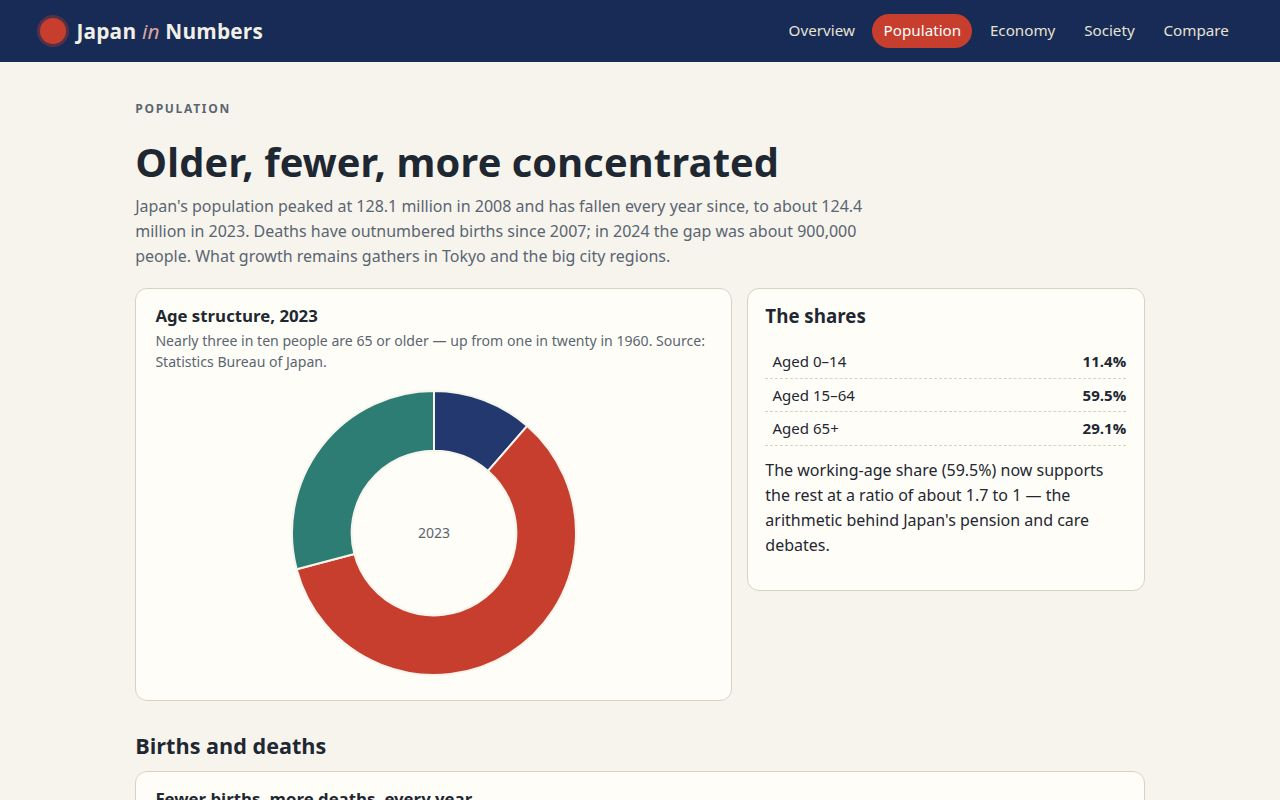
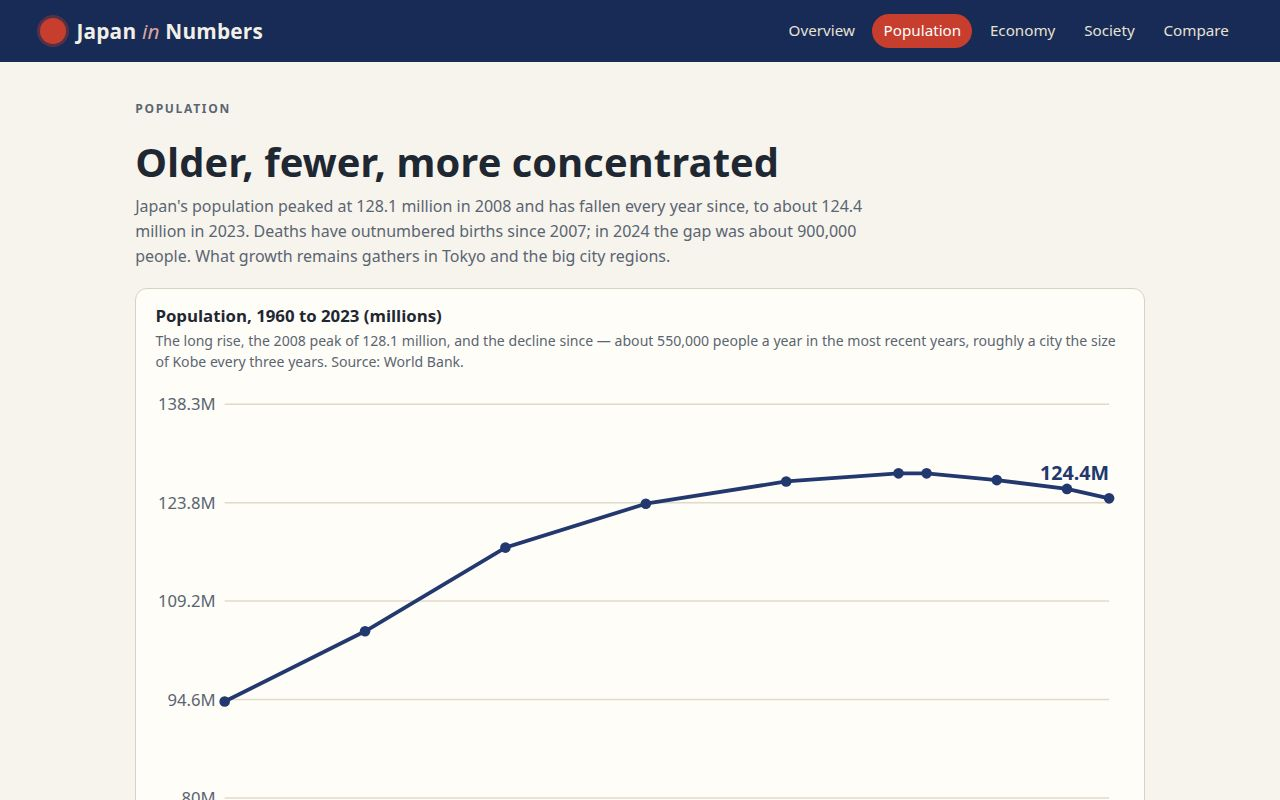
Polish: population trend chart on the population page, readable chart floors, prefecture order and wording fixes

diff --git a/app/views.js b/app/views.js
@@ -37,7 +37,7 @@ export function overviewView() {
     <p class="chart-sub">Sixty years of growth, a peak of ${peak.value} million in ${peak.year}, then a decline of
     ${Math.abs(fall.abs)} million (${fall.pct}%) by 2023 — the turn that shapes everything else on this site.
     Source: World Bank.</p>
-    ${lineChart(POPULATION_TREND, { unit: 'M', label: 'Population of Japan, millions' })}
+    ${lineChart(POPULATION_TREND, { unit: 'M', label: 'Population of Japan, millions', floor: 80 })}
   </div>
 
   <h2 class="section">Go deeper</h2>
@@ -57,6 +57,12 @@ export function populationView() {
     <p>Japan's population peaked at 128.1 million in 2008 and has fallen every year since, to about
     124.4 million in 2023. Deaths have outnumbered births since 2007; in 2024 the gap was about
     900,000 people. What growth remains gathers in Tokyo and the big city regions.</p>
+  </div>
+  <div class="card chart-card" style="margin-bottom:0.9rem">
+    <h3>Population, 1960 to 2023 (millions)</h3>
+    <p class="chart-sub">The long rise, the 2008 peak of 128.1 million, and the decline since — about 550,000 people a year
+    in the most recent years, roughly a city the size of Kobe every three years. Source: World Bank.</p>
+    ${lineChart(POPULATION_TREND, { unit: 'M', label: 'Population of Japan, millions', floor: 80 })}
   </div>
   <div class="split">
     <div class="card chart-card">
@@ -143,7 +149,7 @@ export function societyView() {
     <h3>Life expectancy at birth, 1960 to 2022</h3>
     <p class="chart-sub">Sixteen extra years of life since 1960. The small dip in 2021–22, the first in decades, followed the
     pandemic years. Source: World Bank.</p>
-    ${lineChart(LIFE_EXPECTANCY, { unit: '', color: '#2e7d74', label: 'Life expectancy in Japan, years' })}
+    ${lineChart(LIFE_EXPECTANCY, { unit: '', color: '#2e7d74', label: 'Life expectancy in Japan, years', floor: 50 })}
   </div>
   <h2 class="section">Society in figures</h2>
   <div class="cards">

diff --git a/app/data.js b/app/data.js
@@ -2,7 +2,7 @@
 // values are the published magnitudes, rounded for readability (see the footer of every page).
 
 export const KEY_INDICATORS = [
-  { label: 'Population', value: '124.4 million', detail: 'Down about 0.4% a year since the 2008 peak of 128.1 million', source: 'World Bank', year: 2023 },
+  { label: 'Population', value: '124.4 million', detail: 'Falling every year since the 2008 peak of 128.1 million', source: 'World Bank', year: 2023 },
   { label: 'Gross domestic product', value: '$4.21 trillion', detail: 'The world\u2019s fourth-largest economy, behind the US, China and Germany', source: 'World Bank', year: 2023 },
   { label: 'GDP per person', value: '$33,800', detail: 'Nominal, per head of population', source: 'World Bank', year: 2023 },
   { label: 'Life expectancy', value: '84.0 years', detail: 'Among the highest ever recorded for a large country', source: 'World Bank', year: 2022 },
@@ -35,8 +35,8 @@ export const PREFECTURES = [
   { name: 'Saitama', population: 7.34, note: 'Tokyo\u2019s northern commuter belt' },
   { name: 'Chiba', population: 6.28, note: 'East of Tokyo, around the bay' },
   { name: 'Hyogo', population: 5.37, note: 'Kobe and the Inland Sea coast' },
-  { name: 'Hokkaido', population: 5.09, note: 'The northern island; largest by area, shrinking fastest' },
   { name: 'Fukuoka', population: 5.10, note: 'Kyushu\u2019s hub city region' },
+  { name: 'Hokkaido', population: 5.09, note: 'The northern island; largest by area, shrinking fastest' },
   { name: 'Shizuoka', population: 3.56, note: 'Between Tokyo and Nagoya, under Mt Fuji' },
 ];
 

diff --git a/app/charts.js b/app/charts.js
@@ -21,9 +21,9 @@ function axes(width, height, padL, padB, max, formatY) {
   return { out, y, plotH };
 }
 
-export function lineChart(series, { width = 640, height = 300, color = INDIGO, unit = '', label = '' } = {}) {
+export function lineChart(series, { width = 640, height = 300, color = INDIGO, unit = '', label = '', floor = undefined } = {}) {
   const max = Math.max(...series.map((p) => p.value)) * 1.08;
-  const min = Math.min(0, Math.min(...series.map((p) => p.value)) * 1.08);
+  const min = floor !== undefined ? floor : Math.min(0, Math.min(...series.map((p) => p.value)) * 1.08);
   const padL = 46, padB = 26;
   const plotW = width - padL - 10, plotH = height - padB - 14;
   const xMin = series[0].year, xMax = series[series.length - 1].year;
